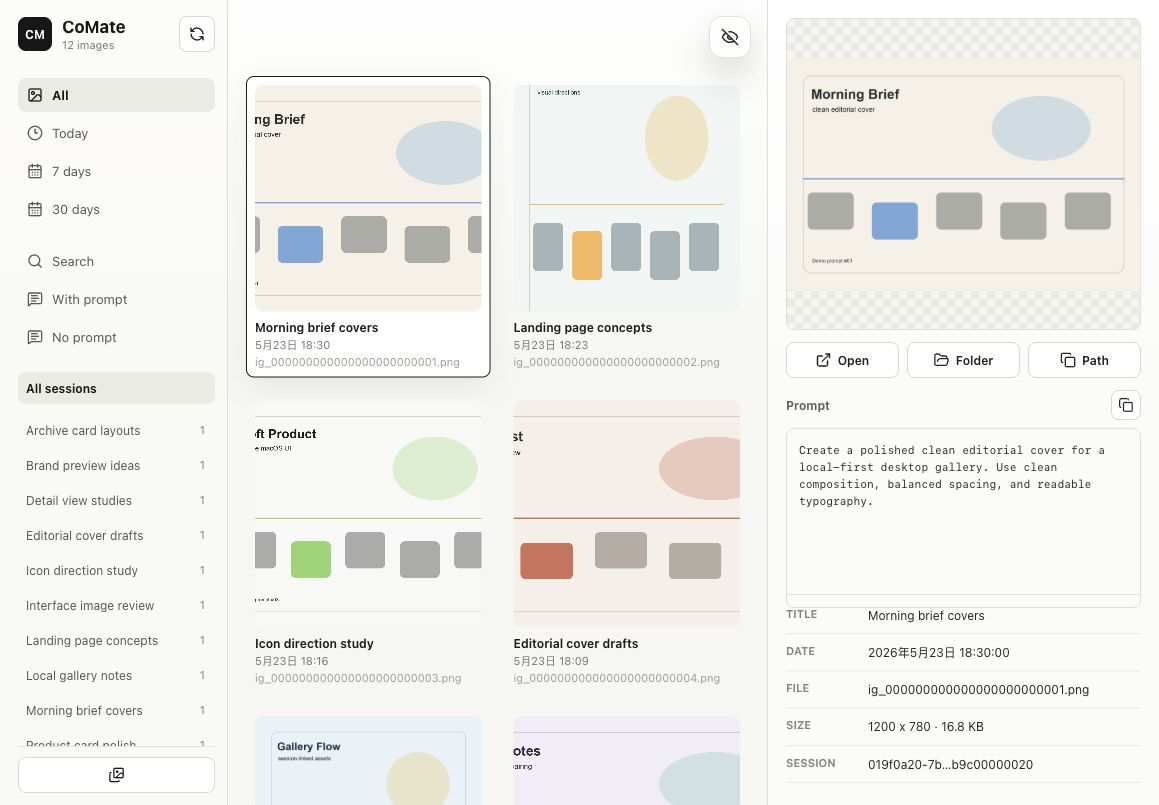
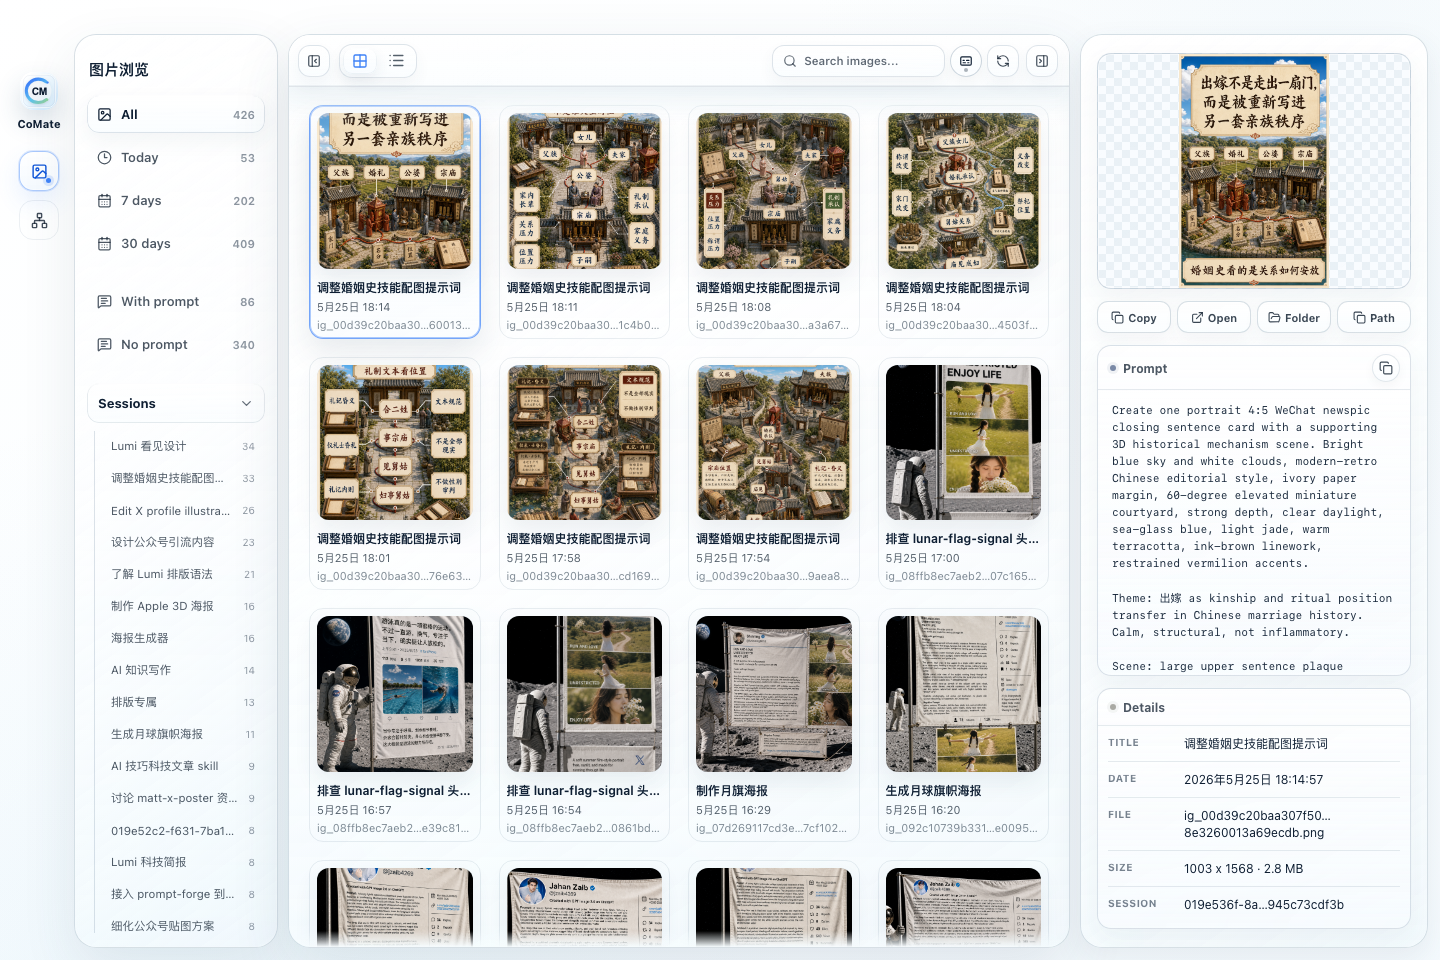
Prepare open source README

diff --git a/README.md b/README.md
@@ -6,9 +6,18 @@
   <img src="./docs/images/comate-icon.png" alt="CoMate icon" width="96" height="96">
 </p>
 
-CoMate is a fully local companion gallery for the Codex desktop app. It indexes images generated by Codex Desktop, links them with local session metadata and prompts, and gives you a clean private gallery for browsing your work.
+CoMate is a fully local companion app for Codex Desktop. It indexes images generated by Codex, links them with local session metadata and prompts, and gives you a clean private gallery plus a capability map for understanding what Codex can do on your machine.
 
 ![CoMate screenshot](./docs/images/comate-screenshot.png)
+
+## Highlights
+
+- Browse Codex Desktop generated images in a polished local gallery.
+- Search, filter by date or prompt state, and jump between generation sessions.
+- Inspect prompts, image metadata, file paths, and source folders.
+- Copy selected images directly to the macOS clipboard.
+- Review local Codex capabilities across Skills, Plugins, MCP, Commands, Automations, and Issues.
+- Runs locally with no login, analytics, telemetry, or cloud sync.
 
 ## Why
 
@@ -74,6 +83,8 @@ npm run package:mac
 ```
 
 Artifacts are written to `release/`.
+
+Unsigned macOS builds are also produced by the **Package macOS App** GitHub Actions workflow. Pushes to `main` run CI, and `v*` tags can publish release artifacts.
 
 ## Production Web Mode
 

diff --git a/README.zh-CN.md b/README.zh-CN.md
@@ -6,9 +6,18 @@
   <img src="./docs/images/comate-icon.png" alt="CoMate 图标" width="96" height="96">
 </p>
 
-CoMate 是一个给 Codex 桌面应用使用的本地图像图库。它会索引 Codex Desktop 生成在你电脑上的图片，把图片和本地 session 元数据、prompt 关联起来，然后提供一个干净、私密的本地浏览界面。
+CoMate 是一个给 Codex Desktop 使用的本地 companion app。它会索引 Codex 在你电脑上生成的图片，把图片和本地 session 元数据、prompt 关联起来，并提供一个干净、私密的图片浏览界面和 Codex 能力图谱。
 
 ![CoMate 截图](./docs/images/comate-screenshot.png)
+
+## 功能亮点
+
+- 用本地图库浏览 Codex Desktop 生成的图片。
+- 支持搜索、按时间筛选、按 prompt 状态筛选，并可在生成 session 之间切换。
+- 查看 prompt、图片元数据、文件路径和所在目录。
+- 支持把选中图片直接复制到 macOS 剪贴板。
+- 查看本机 Codex 的 Skills、Plugins、MCP、Commands、Automations 和 Issues。
+- 完全本地运行，不需要登录，没有统计分析、遥测或云同步。
 
 ## 为什么做它
 
@@ -74,6 +83,8 @@ npm run package:mac
 ```
 
 构建产物会输出到 `release/`。
+
+GitHub Actions 里的 **Package macOS App** workflow 也可以构建未签名的 macOS 产物。推送到 `main` 会自动运行 CI，推送 `v*` tag 时可以发布 release artifacts。
 
 ## Web 生产模式
 